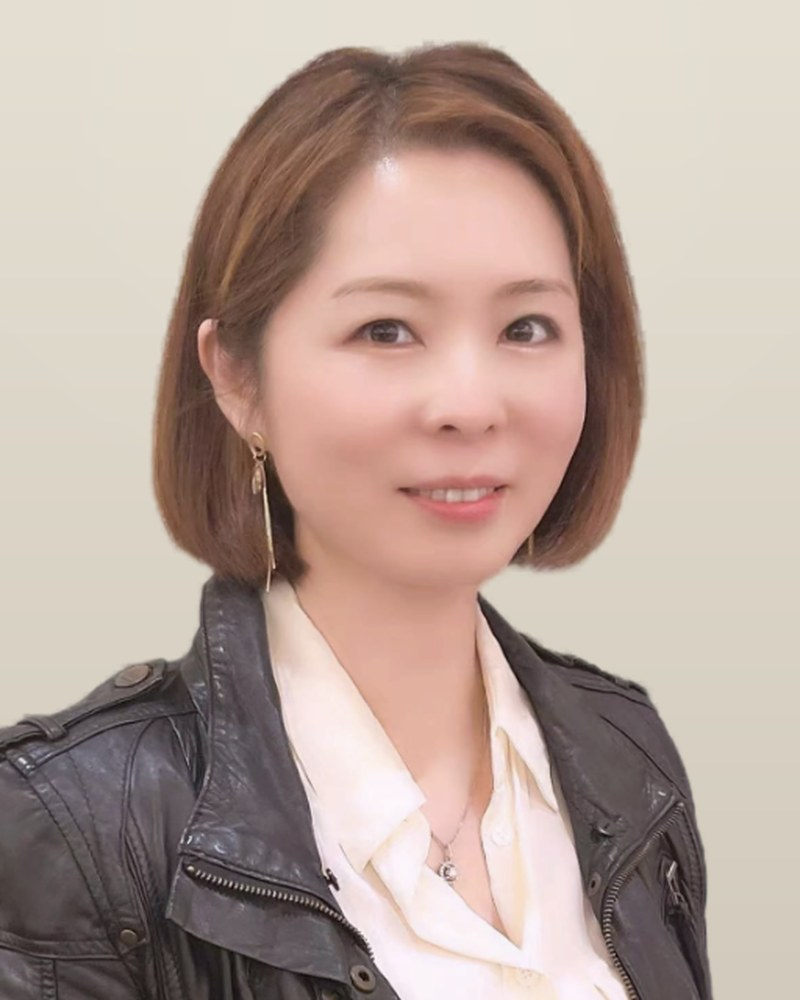
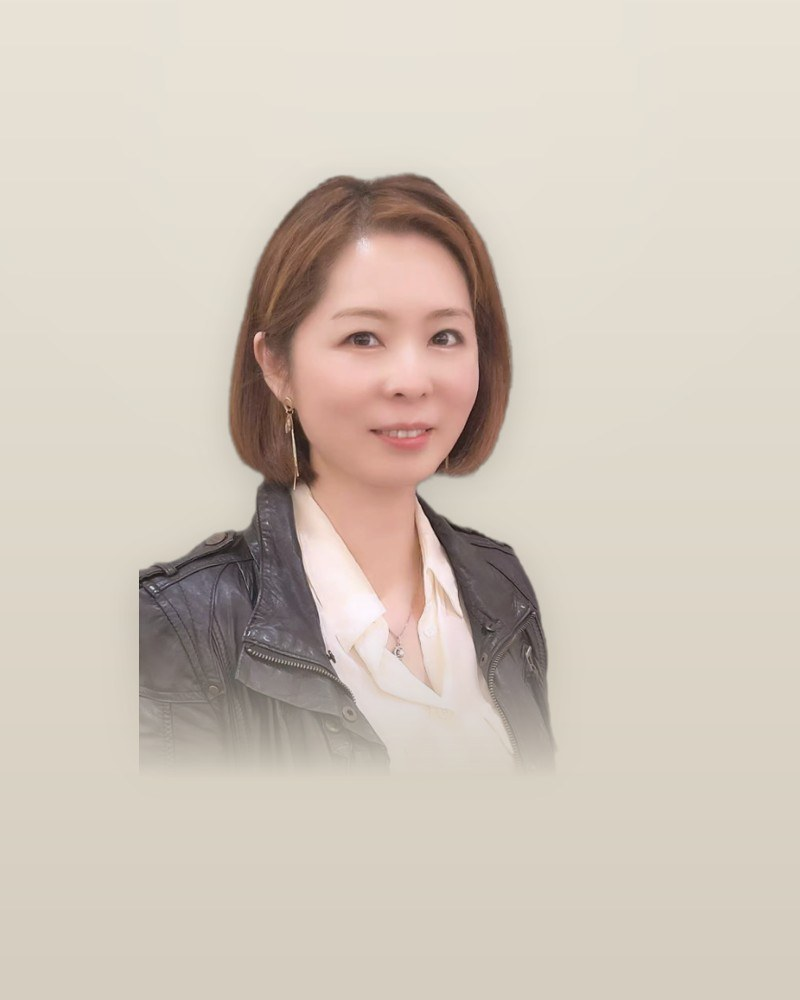
Team: cleaner unified portraits + move section higher on About
- Reprocess portraits with human-segmentation (removes Wanjin's original
  circular grey backdrop), face-based alignment (consistent head size and
  eye-line), soft per-subject bottom fade and a subtle grounding shadow —
  so the four read as one cohesive set with clean edges.
- Move the team section directly below the hero (above "Core model") for
  prominence / trust.

Claude-Session: https://claude.ai/code/session_012sUTwtPdH11qSoivRLDWgW

diff --git a/src/app/about/page.tsx b/src/app/about/page.tsx
@@ -67,6 +67,9 @@ export default function AboutPage() {
           </Reveal>
         </section>
 
+        {/* The team — real faces, placed high for trust */}
+        <TeamSection members={TEAM} />
+
         {/* CORE MODEL */}
         <section className="bg-green text-oat">
           <div className="mx-auto max-w-6xl px-6 py-24">
@@ -126,9 +129,6 @@ export default function AboutPage() {
             </Reveal>
           </div>
         </section>
-
-        {/* The team — real faces behind the sourcing */}
-        <TeamSection members={TEAM} />
 
         {/* Certifications + independent testing */}
         <Certifications certs={CERTIFICATIONS} />
